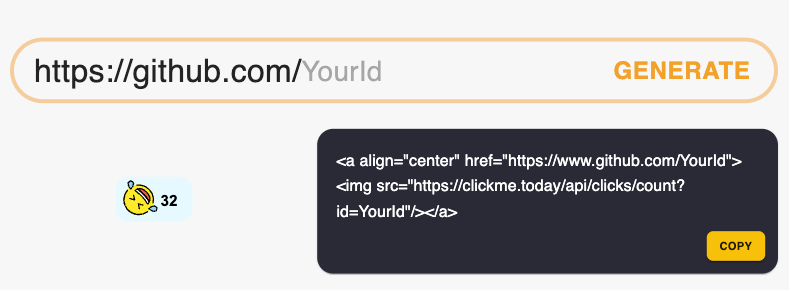
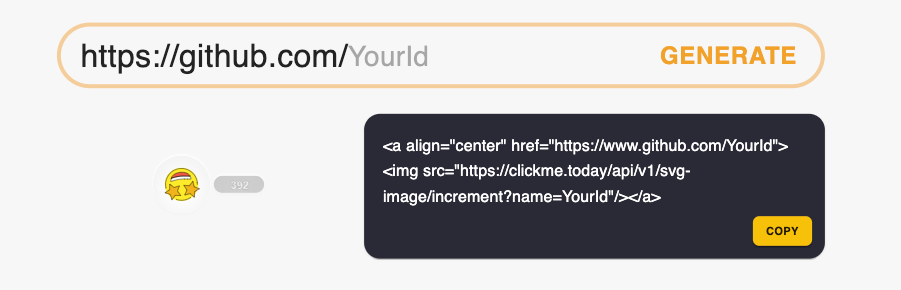
docs: readme.md 파일 수정

Changed region(s): [[0.0, 0.0621, 1.0, 0.9621], [0.1521, 0.5586, 0.3042, 0.7448]]

diff --git a/README.md b/README.md
@@ -1,5 +1,5 @@
 # CLICK-ME
-<a align="center" href="https://www.github.com/SilentBombers/click-me"><img src="https://clickme.today/api/clicks/count?id=SilentBombers/click-me"/></a>
+<a align="center" href="https://www.github.com/SilentBombers/click-me"><img src="https://clickme.today/api/v1/svg-image/increment?name=SilentBombers/click-me"/></a>
 
 [Generate Your Own ClickMe](https://clickme.today/main)
 ## Overview
@@ -15,6 +15,7 @@ You generate the click-me through [site](https://clickme.today/main) </br>
 + Displays total click count on your page.
 + Support image with customize style.(comming soon..)
 + Provides rankings for github users.
++ Show a graph of your site about daily count of histories in recently 7 day
 
 ## LICENSE
 This project is licensed under  Creative Commons Share Alike License 4.0 ([CC BY-SA 4.0](https://creativecommons.org/licenses/by-sa/4.0/))
